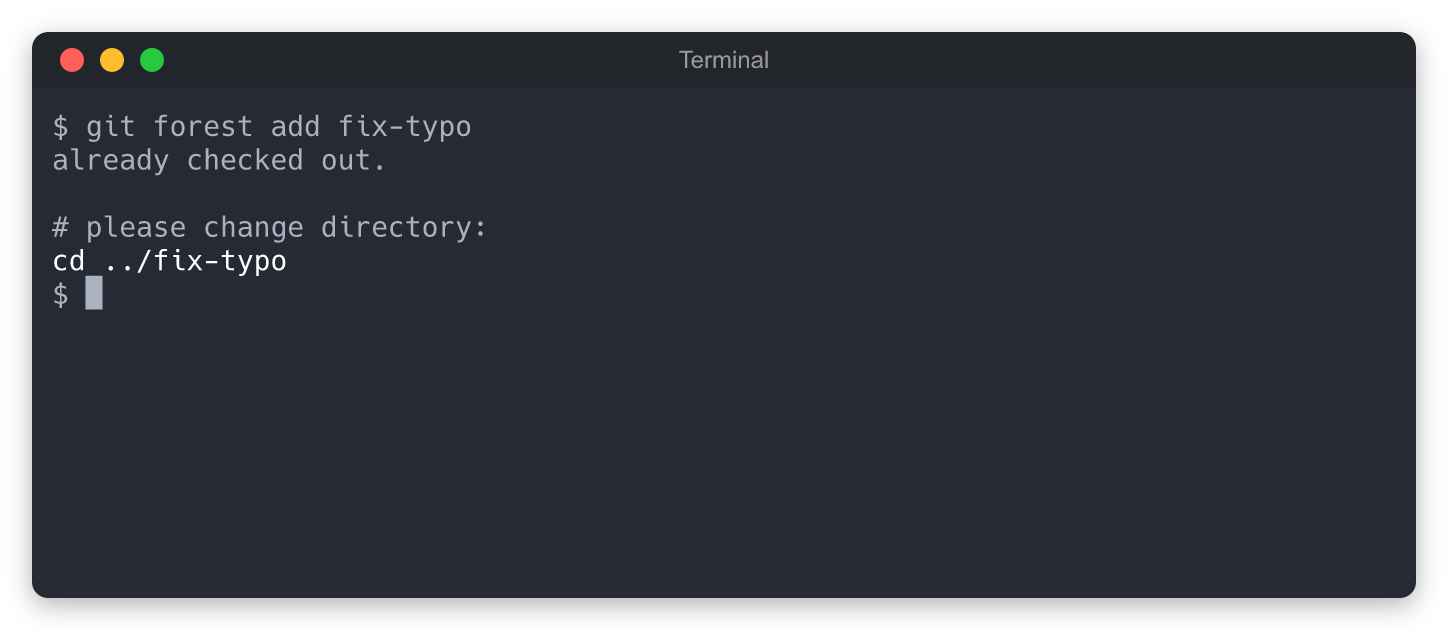
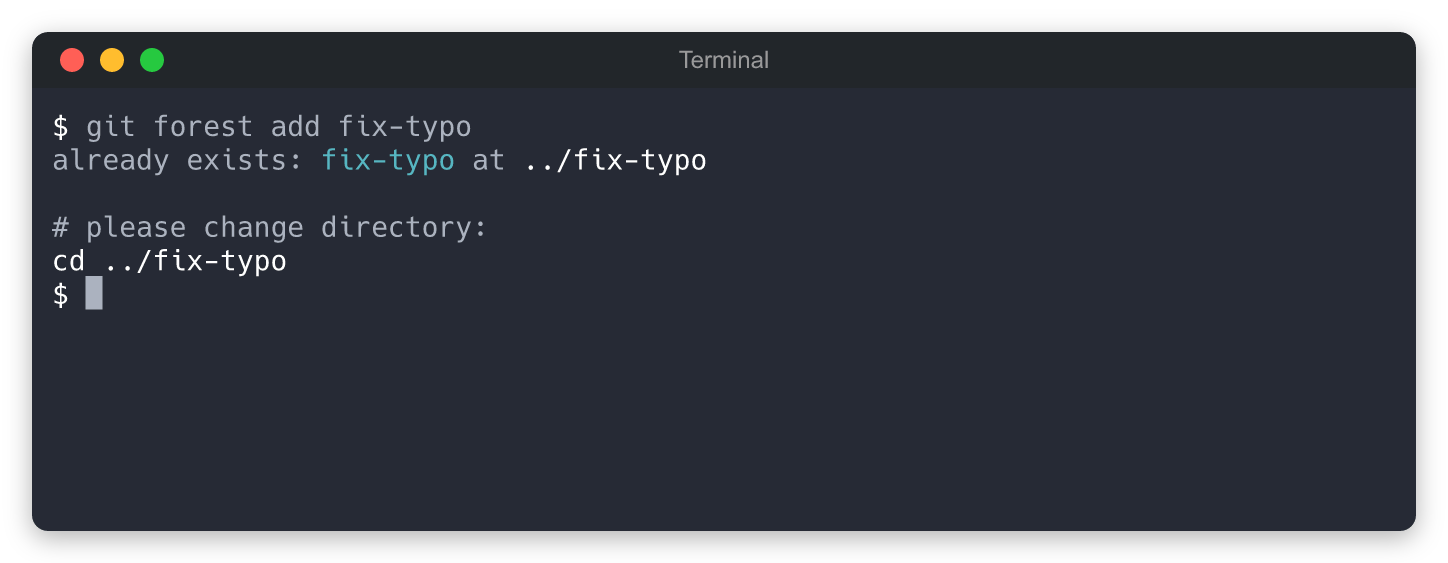
fix: bright white PS1, better add output, retake screenshots

diff --git a/src/cli.ts b/src/cli.ts
@@ -122,10 +122,10 @@ program
       const result = await checkoutCommand(branch, process.cwd(), config, gitArgs);
       const rel = path.relative(process.cwd(), result.treePath);
       if (result.created) {
-        console.log(`checked out ${chalk.green(result.branch)}.`);
+        console.log(`added ${chalk.green(result.branch)}.`);
         printCdHint(rel);
       } else if (rel) {
-        console.log(`already checked out.`);
+        console.log(`already exists: ${chalk.cyan(result.branch)} at ${chalk.whiteBright(rel)}`);
         printCdHint(rel);
       } else {
         console.log(`already on ${chalk.green(result.branch)}.`);

diff --git a/CLAUDE.md b/CLAUDE.md
@@ -50,10 +50,10 @@ The comment line is dimmed (`chalk.dim`), the `cd` command is bright white (`cha
 Use the shellwright MCP server to capture screenshots for `docs/screenshots/`:
 
 1. `shell_start` — command: `bash`, args: `["--login", "-i"]`, theme: `one-dark`, cols: `80`, rows: `22` (adjust to fit content without wrapping)
-2. Set a clean prompt: `export PS1='$ '` then `cd` to the target forest, then `clear`
+2. Set a clean bright white prompt: `PS1=$(printf '\033[97m$ \033[0m')` then `cd` to the target forest, then `clear`
 3. Run the command
 4. `shell_screenshot` — border: `{ style: "macos", title: "Terminal" }`
 5. `curl -o docs/screenshots/<name>.png <download_url>`
 6. `shell_stop`
 
-The prompt MUST be a plain bright white `$ ` — no username, path, git branch, or conda env. Always set `PS1` before taking screenshots. Use bash (not zsh). Verify no line wrapping before taking the screenshot.
+The prompt MUST be a bright white `$ ` (ANSI 97) — no username, path, git branch, or conda env. Always set `PS1` before taking screenshots. Use bash (not zsh). Verify no line wrapping before taking the screenshot.
